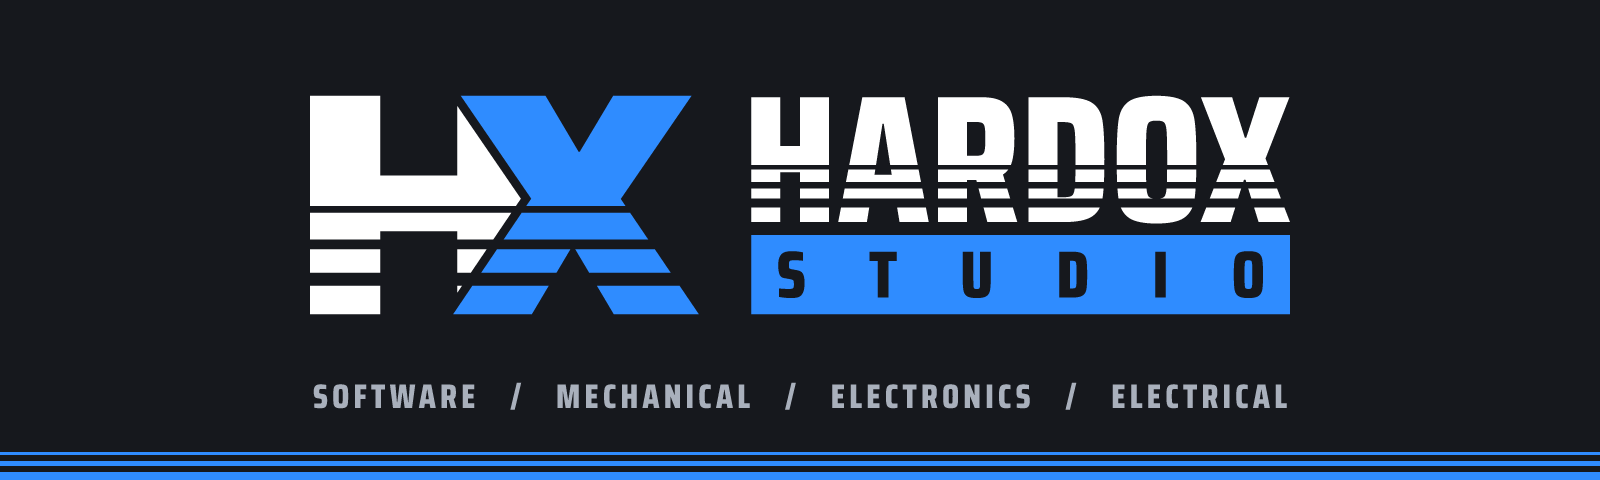
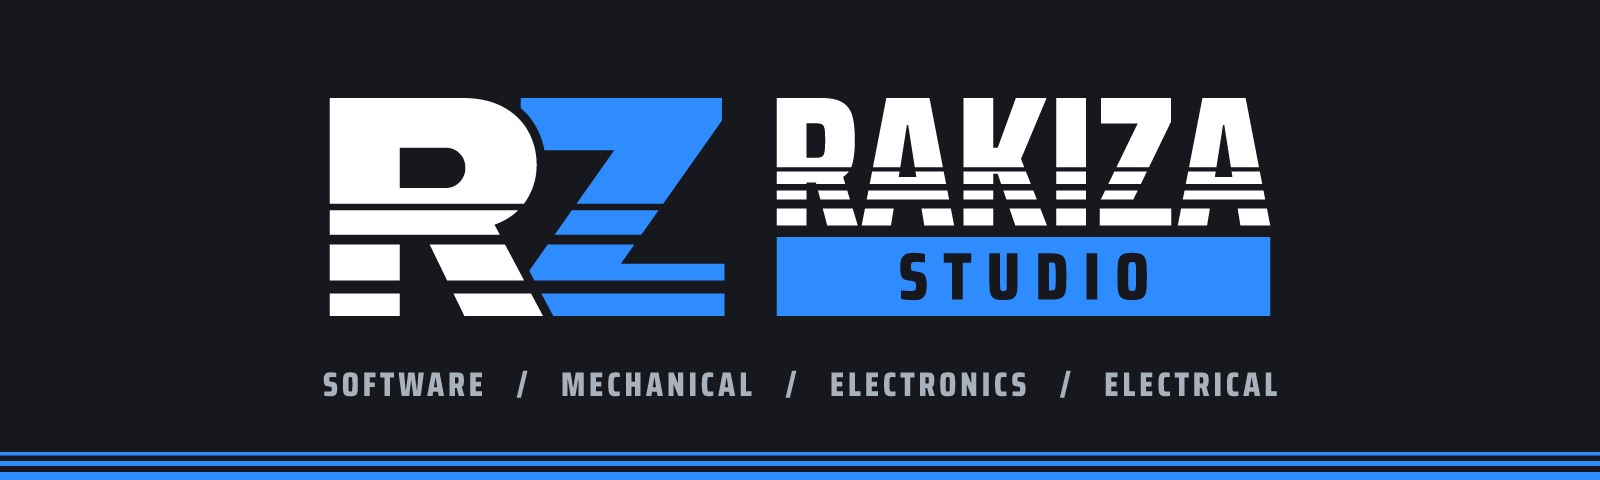
Update the profile for RAKIZA STUDIO
Replace the banner with the new logo and point links at the new
organization address.

Changed region(s): [[0.1875, 0.1875, 0.8125, 0.6562], [0.1875, 0.75, 0.8125, 0.875]]

diff --git a/profile/README.md b/profile/README.md
@@ -1,6 +1,6 @@
 <div align="center">
 
-<img src="https://raw.githubusercontent.com/HARDOX-STUDIO/.github/main/profile/assets/banner.png" alt="HARDOX STUDIO: software, mechanical, electronics, electrical" width="100%">
+<img src="https://raw.githubusercontent.com/RAKIZA-STUDIO/.github/main/profile/assets/banner.png" alt="RAKIZA STUDIO: software, mechanical, electronics, electrical" width="100%">
 
 **A development and innovation studio. We build solutions across software, mechanical, electronics and electrical work.**
 
@@ -19,12 +19,12 @@
 
 ## Featured project
 
-### [Send to Creality](https://github.com/HARDOX-STUDIO/blender-send-to-creality)
+### [Send to Creality](https://github.com/RAKIZA-STUDIO/blender-send-to-creality)
 
 A one-button Blender add-on that merges your parts into one printable solid, sets the height, checks the mesh and sends it to Creality Print.
 
 <div align="center">
-<a href="https://github.com/HARDOX-STUDIO/blender-send-to-creality">
-<img src="https://raw.githubusercontent.com/HARDOX-STUDIO/blender-send-to-creality/main/docs/demo.gif" alt="Sending a model from Blender to Creality Print" width="80%">
+<a href="https://github.com/RAKIZA-STUDIO/blender-send-to-creality">
+<img src="https://raw.githubusercontent.com/RAKIZA-STUDIO/blender-send-to-creality/main/docs/demo.gif" alt="Sending a model from Blender to Creality Print" width="80%">
 </a>
 </div>
